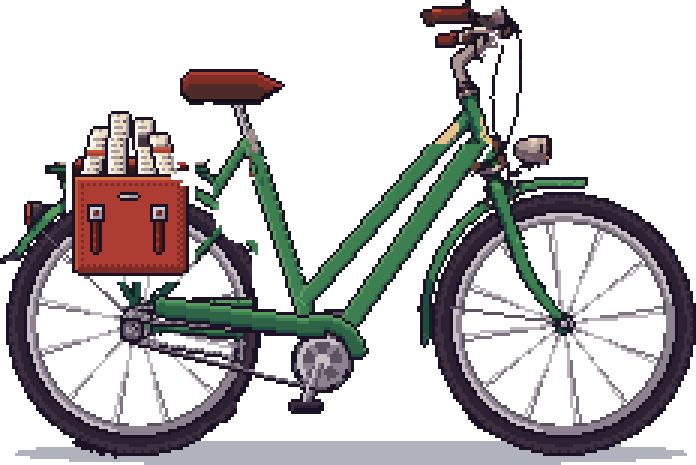
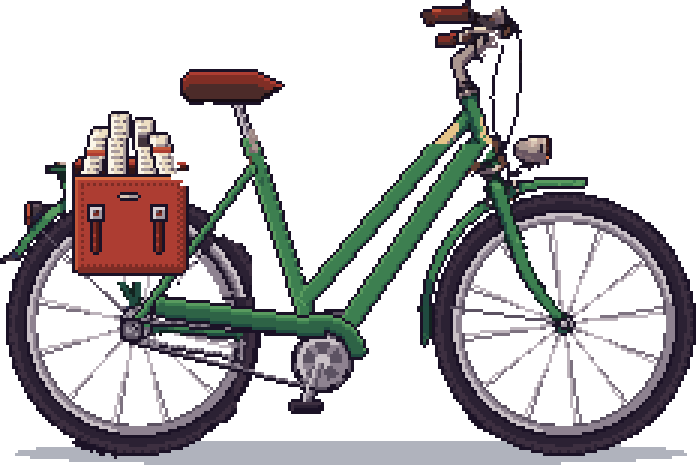
art(ui): seat stay tipis dari bawah dudukan ke poros roda belakang
Penilaian pemilik: seat stay kurang pas. Sekarang satu stay 2 px dari
tabung sadel 8 px di bawah dudukan lurus ke tengah poros roda belakang,
di belakang tas, poros, rantai, dan tutup rantai. Potongan stay sumber
yang separuh tertutup lengan tokoh dibuang; ban di belakangnya diisi dari
profil ban.

Claude-Session: https://claude.ai/code/session_014pKAHN68ypreAvo6djoDqb

Changed region(s): [[0.2716, 0.3011, 0.3922, 0.6624], [0.181, 0.572, 0.2716, 0.6925], [0.3319, 0.5118, 0.3922, 0.5419]]

diff --git a/docs/design/redesain/kanvas/Bengkel_TataA.dc.html b/docs/design/redesain/kanvas/Bengkel_TataA.dc.html
@@ -39,7 +39,7 @@ body{margin:0}
 <section class="pnl layar ab" aria-label="Sepeda" style="left: 220px; top: 62px; width: 200px; height: 232px; padding: 4px">
 <div style="position: relative; height: 100%; overflow: hidden; background: #2A1E17; box-shadow: 0 0 0 1px #0E0A1C">
 <img src="/_blob/7cb89d9a8ad08057e730fa7585a0ad93" alt="" style="position: absolute; left: -84px; bottom: 0">
-<img src="/_blob/d3a25f225eede42c995499578ba21adf" alt="Sepeda loper" style="position: absolute; left: 34px; top: 132px">
+<img src="/_blob/2de4315b987c8da057d694005de1e80b" alt="Sepeda loper" style="position: absolute; left: 34px; top: 132px">
 <i style="position: absolute; left: 38px; top: 199px; width: 3px; height: 3px; background: #FF8A3D; box-shadow: 0 0 0 1px #0E0A1C"></i>
 <span class="chip kecil warn" style="position: absolute; left: 4px; top: 186px">! Ban</span>
 <i style="position: absolute; left: 107px; top: 136px; width: 3px; height: 3px; background: #FF8A3D; box-shadow: 0 0 0 1px #0E0A1C"></i>

diff --git a/docs/design/redesain/kanvas/Bengkel_TataB.dc.html b/docs/design/redesain/kanvas/Bengkel_TataB.dc.html
@@ -22,7 +22,7 @@ body{margin:0}
 <section class="pnl layar ab" aria-label="Sepeda" style="left: 12px; top: 46px; width: 280px; height: 170px; padding: 4px">
 <div style="position: relative; height: 100%; overflow: hidden; background: #2A1E17; box-shadow: 0 0 0 1px #0E0A1C">
 <img src="/_blob/7cb89d9a8ad08057e730fa7585a0ad93" alt="" style="position: absolute; left: -48px; bottom: 0">
-<img src="/_blob/d3a25f225eede42c995499578ba21adf" alt="Sepeda loper" style="position: absolute; left: 74px; top: 70px">
+<img src="/_blob/2de4315b987c8da057d694005de1e80b" alt="Sepeda loper" style="position: absolute; left: 74px; top: 70px">
 <i style="position: absolute; left: 78px; top: 137px; width: 3px; height: 3px; background: #FF8A3D; box-shadow: 0 0 0 1px #0E0A1C"></i>
 <span class="chip kecil warn" style="position: absolute; left: 42px; top: 130px">! Ban</span>
 <i style="position: absolute; left: 147px; top: 74px; width: 3px; height: 3px; background: #FF8A3D; box-shadow: 0 0 0 1px #0E0A1C"></i>

diff --git a/docs/design/redesain/kanvas/Bengkel.dc.html b/docs/design/redesain/kanvas/Bengkel.dc.html
@@ -27,7 +27,7 @@ body{margin:0}
 <div class="bag lbl" style="height: 12px">Servis</div>
 <div style="position: relative; height: {{sh}}px; overflow: hidden; background: #2A1E17; box-shadow: 0 0 0 1px #0E0A1C">
 <img src="/_blob/7cb89d9a8ad08057e730fa7585a0ad93" alt="" style="position: absolute; left: {{papanX}}px; bottom: 0">
-<img src="/_blob/d3a25f225eede42c995499578ba21adf" alt="Sepeda loper" style="position: absolute; left: {{bx}}px; top: {{by}}px">
+<img src="/_blob/2de4315b987c8da057d694005de1e80b" alt="Sepeda loper" style="position: absolute; left: {{bx}}px; top: {{by}}px">
 <sc-for list="{{penanda}}" as="m" hint-placeholder-count="2">
 <i style="position: absolute; left: {{m.dx}}px; top: {{m.dy}}px; width: 3px; height: 3px; background: {{m.warna}}; box-shadow: 0 0 0 1px #0E0A1C"></i>
 <span class="chip kecil {{m.cls}}" style="position: absolute; left: {{m.cx}}px; top: {{m.cy}}px">{{m.teks}}</span>

diff --git a/tools/ui_art/redesain/sepeda_fullbody.py b/tools/ui_art/redesain/sepeda_fullbody.py
@@ -235,8 +235,65 @@ def tabung_step(img):
     k.garis_luar()
 
 
+# seat stay (penilaian pemilik 2026-10-23): dari tabung sadel sedikit di bawah dudukan lurus ke tengah poros roda belakang,
+# tipis, di belakang tas, poros, rantai, dan tutup rantai, di depan jari-jari
+STAY_ATAS_Y = 166
+STAY_TEBAL = 2
+TAS = (27, 168, 66, 204)                         # kotak tas boncengan (x0, y0, x1, y1): stay lewat di belakangnya
+STAY_BERSIH = (58, 146, 97, 216)                 # kotak tempat sisa stay dan potongan hijau sumber dibuang
+WARNA_GARIS_HIJAU = {GARIS, (19, 36, 32), (23, 13, 20), (26, 20, 34), (38, 29, 44)}
+
+
+def titik_tabung_sadel(y):
+    (x0, y0), (x1, y1) = BB, DUDUKAN
+    return x0 + (x1 - x0) * (y - y0) / (y1 - y0)
+
+
+def seat_stay(img):
+    """Satu seat stay bersih menggantikan potongan stay sumber (separuh tertutup lengan tokoh) dan stay lama."""
+    H, W = img.shape[:2]
+    x0, y0, x1, y1 = STAY_BERSIH
+    jarak_tabung = lambda x, y: abs((x - titik_tabung_sadel(y)) * 0.95)
+    for y in range(y0, y1):
+        for x in range(x0, x1):
+            if TAS[0] <= x < TAS[2] and TAS[1] <= y < TAS[3]:
+                continue
+            if y >= DUDUKAN[1] - 1 and jarak_tabung(x, y) <= 3.5:
+                continue
+            r, g, b = (int(v) for v in img[y, x, :3])
+            if img[y, x, 3] and g > r + 10 and g > b:
+                img[y, x] = 0
+    for _ in range(2):                              # garis luar hijau yang kini yatim
+        for y in range(y0, y1):
+            for x in range(x0, x1):
+                if img[y, x, 3] and tuple(int(v) for v in img[y, x, :3]) in WARNA_GARIS_HIJAU:
+                    tetangga = [img[y + dy, x + dx] for dx, dy in ((1, 0), (-1, 0), (0, 1), (0, -1))]
+                    if not any(t[3] and tuple(int(v) for v in t[:3]) not in WARNA_GARIS_HIJAU for t in tetangga):
+                        img[y, x] = 0
+    cx, cy, R = RODA_BELAKANG
+    for y in range(y0, y1):                         # ban dan pelek yang tadinya tertutup potongan hijau sumber
+        for x in range(x0, x1):
+            if img[y, x, 3] == 0:
+                c = warna_ban(x, y, cx, cy, R)
+                if c is not None:
+                    img[y, x] = (*c, 255)
+    boleh = np.ones((H, W), bool)
+    boleh[TAS[1]:TAS[3], TAS[0]:TAS[2]] = False
+    for y in range(H):
+        for x in range(W):
+            if math.hypot(x - cx, y - cy) < 4.5 or (y >= DUDUKAN[1] and jarak_tabung(x, y) <= 2.5):
+                boleh[y, x] = False
+    atas = (titik_tabung_sadel(STAY_ATAS_Y), STAY_ATAS_Y)
+    k = Kuas(img, boleh)
+    k.pipa(atas, (cx, cy), STAY_TEBAL)
+    for y, x in zip(*np.nonzero(k.padat)):          # garis luar menimpa jari-jari dan ban di sebelahnya
+        for dx, dy in ((1, 0), (-1, 0), (0, 1), (0, -1)):
+            xx, yy = x + dx, y + dy
+            if boleh[yy, xx] and not k.padat[yy, xx]:
+                img[yy, xx] = (*GARIS, 255)
+
+
 def rangka(k):
-    k.pipa((47, 216), DUDUKAN, 3)                   # seat stay
     k.pipa(BB, DUDUKAN, 5)                          # seat tube
     for p0, p1, tebal in TABUNG_STEP:               # dua pipa step-through
         k.pipa(p0, p1, tebal)
@@ -517,6 +574,7 @@ def main():
     roda_depan(k, asli)
     rangka(k)
     k.garis_luar()
+    seat_stay(k.img)
     tabung_step(k.img)
     rantai = penggerak(k.img)
     sadel(k.img)

diff --git a/docs/design/redesain/README.md b/docs/design/redesain/README.md
@@ -75,7 +75,7 @@ k-means dan inpaint memakai pustaka numerik, jadi menjalankan ulang skrip di mes
 
 ## 5b. Sepeda bengkel
 
-Sepeda di panggung bengkel diambil dari gambar full body pemain (`docs/design/character/loper_agen/loper_agen_fullbody.png`, sama dengan artboard "Gambar AI baru jadi pixel art · versi 5" di artefak Design "Karakter Loper Koran"), atas permintaan pemilik 2026-10-23. Skrip `tools/ui_art/redesain/sepeda_fullbody.py` membuang tokoh (warna tubuh, garis luar gelap di sekitarnya, sepatu, kunci, bayangan lama), lalu menggambar ulang bagian sepeda yang tadinya tertutup tubuh hanya di piksel yang kosong: roda belakang dari profil radial yang diukur dari ban yang terlihat (lingkaran, jari-jari tiap 30°), kiri bawah ban depan (ikut terhapus bersama sepatu) dari pantulan sisi kanannya, dan tabung sadel. Dua pipa step-through digambar ulang lurus dari bawah kepala setang (garis diukur dari bagian pipa sumber yang terlihat: pipa atas bertemu tabung sadel, pipa bawah lurus ke poros gir), karena sambungan potongan sumber dan lanjutan yang tidak segaris tampak bergerigi. Chainstay tidak digambar; gantinya tutup rantai hijau yang separuhnya sudah ada di roda belakang diteruskan sampai gir depan dan ujungnya melengkung di atas gir. Gir depan (lima lengan, gigi putus-putus), engkol dan pedal dua sisi, gir belakang, dan rantai atas dan bawah (garis singgung kedua gir) digambar ulang sebagai satu rakitan di kotak gir, karena sumber hanya memperlihatkan potongannya di antara kaki tokoh; di versi kecil rantai digambar 1 px supaya tidak menggumpal. Sorot pegangan setang seberang kebetulan sama dengan salah satu warna kulit, jadi kotak pegangan dikecualikan dari pembuangan tokoh. Sadel digambar utuh dengan hidung 6 px lebih panjang dari sadel sumber (yang separuhnya tertutup tokoh), dan kabel rem ditipiskan dari 2–3 px jadi 1 px supaya di versi kecil tetap garis tipis (penilaian pemilik 2026-10-23). Semua warna diambil dari palet gambar full body (diuji), garis luar `#1B1226` seperti gambar skala besar. Bayangan baru elips datar.
+Sepeda di panggung bengkel diambil dari gambar full body pemain (`docs/design/character/loper_agen/loper_agen_fullbody.png`, sama dengan artboard "Gambar AI baru jadi pixel art · versi 5" di artefak Design "Karakter Loper Koran"), atas permintaan pemilik 2026-10-23. Skrip `tools/ui_art/redesain/sepeda_fullbody.py` membuang tokoh (warna tubuh, garis luar gelap di sekitarnya, sepatu, kunci, bayangan lama), lalu menggambar ulang bagian sepeda yang tadinya tertutup tubuh hanya di piksel yang kosong: roda belakang dari profil radial yang diukur dari ban yang terlihat (lingkaran, jari-jari tiap 30°), kiri bawah ban depan (ikut terhapus bersama sepatu) dari pantulan sisi kanannya, dan tabung sadel. Dua pipa step-through digambar ulang lurus dari bawah kepala setang (garis diukur dari bagian pipa sumber yang terlihat: pipa atas bertemu tabung sadel, pipa bawah lurus ke poros gir), karena sambungan potongan sumber dan lanjutan yang tidak segaris tampak bergerigi. Seat stay digambar ulang tipis (2 px) dari tabung sadel 8 px di bawah dudukan lurus ke tengah poros roda belakang, di belakang tas, poros, rantai, dan tutup rantai; potongan stay sumber (separuh tertutup lengan tokoh) dibuang dan ban di belakangnya diisi dari profil. Chainstay tidak digambar; gantinya tutup rantai hijau yang separuhnya sudah ada di roda belakang diteruskan sampai gir depan dan ujungnya melengkung di atas gir. Gir depan (lima lengan, gigi putus-putus), engkol dan pedal dua sisi, gir belakang, dan rantai atas dan bawah (garis singgung kedua gir) digambar ulang sebagai satu rakitan di kotak gir, karena sumber hanya memperlihatkan potongannya di antara kaki tokoh; di versi kecil rantai digambar 1 px supaya tidak menggumpal. Sorot pegangan setang seberang kebetulan sama dengan salah satu warna kulit, jadi kotak pegangan dikecualikan dari pembuangan tokoh. Sadel digambar utuh dengan hidung 6 px lebih panjang dari sadel sumber (yang separuhnya tertutup tokoh), dan kabel rem ditipiskan dari 2–3 px jadi 1 px supaya di versi kecil tetap garis tipis (penilaian pemilik 2026-10-23). Semua warna diambil dari palet gambar full body (diuji), garis luar `#1B1226` seperti gambar skala besar. Bayangan baru elips datar.
 
 `sepeda_besar.png` (232×155) adalah potongan 1×; `sepeda_kecil.png` (116×78) dibuat dengan blok 2×2 (blok penuh = warna terbanyak, garis tipis dan jari-jari = warna paling terang, garis luar hanya di sekeliling blok penuh) dan dipakai di kanvas, dekat ukuran sepeda prosedural lama 124×72. Titik penanda kondisi di `sepeda.json` (`titik_kecil`: ban, rem, rantai; titik rantai di rantai atas). Keluaran deterministik (tanpa pustaka acak), jadi uji memeriksa kecocokan piksel.
 
@@ -103,9 +103,9 @@ Yang masih terlihat bila diamati: beberapa piksel krem dan hijau sisa di dekat t
 | `/_blob/98684303037eba551a7f7796438e9a19`, `df48d4009ee5bbb88103f90cb3703898`, `e830964809efbba3c566642bd9bdb0a0`, `87dc67e5338052466bc1aac551111379`, `81d789adb2123fb01971957f3f73f0fc` | `koran_kotak`, `koran_btn_tinta`, `koran_btn_tinta_tekan`, `koran_btn_tipis`, `koran_btn_terpilih` |
 | `/_blob/6ff6449167533e37b1201340a06e5e4e`, `2f6d4018a9ca280cd6dbf775e4ec204c`, `afbc131fc226ae494a5183644dccca52`, `c493d6bcb490bfaa6028c5c5ec03fd70` | `struk`, `struk_takik`, `arsir_nonaktif`, `kertas_tile` |
 | `/_blob/372c7f38efe88500b9954cf865bfb34b`, `a8fc11bcff0402de83219ac569df5491`, `6331f06c70ca2aa3a6a6e552dfe9ad79` | `ikon24`, `lencana32`, `glif12` |
-| `/_blob/d3a25f225eede42c995499578ba21adf`, `7cb89d9a8ad08057e730fa7585a0ad93`, `7474ef878735646d976d01349198b272`, `a31678716a113eab1149137657ce2e0a` | `sepeda_kecil`, `papan_alat`, `foto_jalan`, `foto_lampu` |
+| `/_blob/2de4315b987c8da057d694005de1e80b`, `7cb89d9a8ad08057e730fa7585a0ad93`, `7474ef878735646d976d01349198b272`, `a31678716a113eab1149137657ce2e0a` | `sepeda_kecil`, `papan_alat`, `foto_jalan`, `foto_lampu` |
 | `/_blob/0394a12fbc917b33a44355e7ebdde963` | `latar_bengkel/bengkel_latar_800.png` |
 | `/_blob/f69c513708dab5417f72e6f09771d7b4` | Tangkapan layar jalan run 5B diperkecil ke 640×360 (`docs/loop/20261021-fase5b-tembok-dekor/shots/iter1/1920x1080_dekat_dekor_jalur_utama.png`), latar papan Jeda, Tutorial, Banner, HUD |
 | `/_blob/1b8c69138f32cb9445bfef455e4dad11`, `e03f1bcfd5e463815d1be2eab707a584`, `8accfd5abc85c093f7ac098be585e921`, `972e215ef8cce3d49f3b1dbb217faafd`, `ae731af7a3e15ce2c89612c2e528318f`, `95fa34e99a2063540cf39d946e534094`, `97b23399af47af9a6ee68826f41c12bb` | `assets/sprites/ui/ui_icon_{koin,reputasi,ban,rem,rantai,misi_kucing}.png`, `ui_bel_tombol.png` (yang sudah ada) |
 
-Unggahan lama yang tidak dirujuk lagi: `f5c80e40e3992d10089aad6bc5490d1b` (`ui.css` versi pertama, teks tombol 16 px karena `font: inherit`), `69ef450186d7982468ce4c6f54fe2fa0` (latar bengkel prosedural sebelum latar konversi), `81d52c510b5d1bc715675a17de150433` (papan alat 236 lebar), `af3437483605c4f53214bb9555dbab9e` (sepeda tampak samping prosedural 124×72 sebelum sepeda dari gambar full body), `0351d78ef85ba2fd0e7d4b9da4e2e00c` (sepeda full body pertama: sadel pendek, kabel 2 px, ban belakang lonjong dan kiri bawah ban depan terpotong), `6f2f3584f2de132d48054a6fcf5c2150` (perbaikan pertama: pegangan setang masih coak, gir dan engkol belum menyatu, tanpa rantai), `36b93a68c6a3e83e76194f4f7aeaf630` dan `90993ea437019433323d4d75de336748` (chainstay yang tampak menancap ke ban; pipa step-through bergerigi).
+Unggahan lama yang tidak dirujuk lagi: `f5c80e40e3992d10089aad6bc5490d1b` (`ui.css` versi pertama, teks tombol 16 px karena `font: inherit`), `69ef450186d7982468ce4c6f54fe2fa0` (latar bengkel prosedural sebelum latar konversi), `81d52c510b5d1bc715675a17de150433` (papan alat 236 lebar), `af3437483605c4f53214bb9555dbab9e` (sepeda tampak samping prosedural 124×72 sebelum sepeda dari gambar full body), `0351d78ef85ba2fd0e7d4b9da4e2e00c` (sepeda full body pertama: sadel pendek, kabel 2 px, ban belakang lonjong dan kiri bawah ban depan terpotong), `6f2f3584f2de132d48054a6fcf5c2150` (perbaikan pertama: pegangan setang masih coak, gir dan engkol belum menyatu, tanpa rantai), `36b93a68c6a3e83e76194f4f7aeaf630` dan `90993ea437019433323d4d75de336748` (chainstay yang tampak menancap ke ban; pipa step-through bergerigi), `d3a25f225eede42c995499578ba21adf` (seat stay tebal, terlalu tinggi, tidak ke poros).
